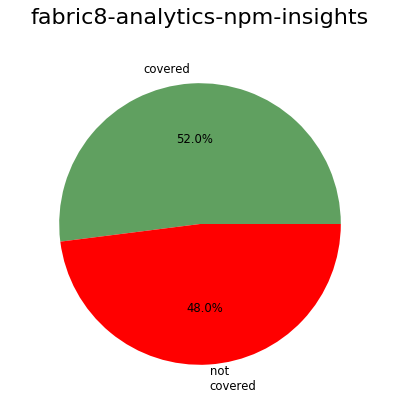
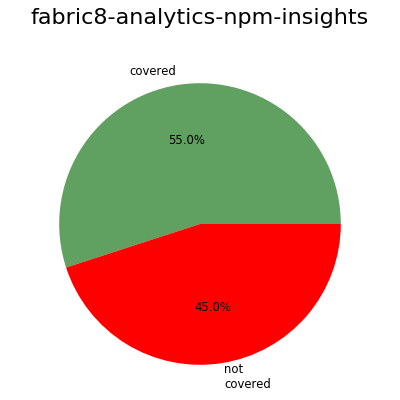
Dashboard 2018-06-01

diff --git a/dashboard/dashboard.html b/dashboard/dashboard.html
@@ -913,11 +913,11 @@
                                 </a>
                             </td>
                                 <td class="numeric ok" style="width:6ex">330</td>
-                                <td class="numeric error" style="width:6ex">157</td>
+                                <td class="numeric error" style="width:6ex">149</td>
                                 <td class="numeric" style="width:16ex">
                                     <a href="fabric8-analytics-npm-insights.coverage.txt">
-                                        <div class='progress-bar progress-bar-warning progress-bar-striped' style='width:59.199999999999996%'>
-                                        52%
+                                        <div class='progress-bar progress-bar-warning progress-bar-striped' style='width:61.75%'>
+                                        55%
                                         </div>
                                     </a>
                                 </td>
@@ -1244,7 +1244,7 @@
             </div>
             <div style='height:100px'></div>
             <div>Author: Pavel Tisnovsky &lt;<a href="mailto:ptisnovs@redhat.com">ptisnovs@redhat.com</a>&gt;</div>
-            <div>Generated on: 2018-05-31 15:20:19</div>
+            <div>Generated on: 2018-06-01 09:34:51</div>
         </div>
         <script type="text/javascript">
         $(function () {

diff --git a/dashboard/repository_f8a-server-backbone.html b/dashboard/repository_f8a-server-backbone.html
@@ -106,7 +106,7 @@
             </div>
             <div style='height:100px'></div>
             <div>Author: Pavel Tisnovsky &lt;<a href="mailto:ptisnovs@redhat.com">ptisnovs@redhat.com</a>&gt;</div>
-            <div>Generated on: 2018-05-31 15:20:19</div>
+            <div>Generated on: 2018-06-01 09:34:51</div>
         </div>
     </body>
 </html>

diff --git a/dashboard/repository_fabric8-analytics-common.html b/dashboard/repository_fabric8-analytics-common.html
@@ -616,7 +616,7 @@
             </div>
             <div style='height:100px'></div>
             <div>Author: Pavel Tisnovsky &lt;<a href="mailto:ptisnovs@redhat.com">ptisnovs@redhat.com</a>&gt;</div>
-            <div>Generated on: 2018-05-31 15:20:19</div>
+            <div>Generated on: 2018-06-01 09:34:51</div>
         </div>
     </body>
 </html>

diff --git a/dashboard/repository_fabric8-analytics-data-model.html b/dashboard/repository_fabric8-analytics-data-model.html
@@ -148,7 +148,7 @@
             </div>
             <div style='height:100px'></div>
             <div>Author: Pavel Tisnovsky &lt;<a href="mailto:ptisnovs@redhat.com">ptisnovs@redhat.com</a>&gt;</div>
-            <div>Generated on: 2018-05-31 15:20:19</div>
+            <div>Generated on: 2018-06-01 09:34:51</div>
         </div>
     </body>
 </html>

diff --git a/dashboard/repository_fabric8-analytics-ingestion.html b/dashboard/repository_fabric8-analytics-ingestion.html
@@ -106,7 +106,7 @@
             </div>
             <div style='height:100px'></div>
             <div>Author: Pavel Tisnovsky &lt;<a href="mailto:ptisnovs@redhat.com">ptisnovs@redhat.com</a>&gt;</div>
-            <div>Generated on: 2018-05-31 15:20:19</div>
+            <div>Generated on: 2018-06-01 09:34:51</div>
         </div>
     </body>
 </html>

diff --git a/dashboard/repository_fabric8-analytics-jobs.html b/dashboard/repository_fabric8-analytics-jobs.html
@@ -274,7 +274,7 @@
             </div>
             <div style='height:100px'></div>
             <div>Author: Pavel Tisnovsky &lt;<a href="mailto:ptisnovs@redhat.com">ptisnovs@redhat.com</a>&gt;</div>
-            <div>Generated on: 2018-05-31 15:20:19</div>
+            <div>Generated on: 2018-06-01 09:34:51</div>
         </div>
     </body>
 </html>

diff --git a/dashboard/repository_fabric8-analytics-license-analysis.html b/dashboard/repository_fabric8-analytics-license-analysis.html
@@ -202,7 +202,7 @@
             </div>
             <div style='height:100px'></div>
             <div>Author: Pavel Tisnovsky &lt;<a href="mailto:ptisnovs@redhat.com">ptisnovs@redhat.com</a>&gt;</div>
-            <div>Generated on: 2018-05-31 15:20:19</div>
+            <div>Generated on: 2018-06-01 09:34:51</div>
         </div>
     </body>
 </html>

diff --git a/dashboard/repository_fabric8-analytics-npm-insights.html b/dashboard/repository_fabric8-analytics-npm-insights.html
@@ -148,7 +148,7 @@
             </div>
             <div style='height:100px'></div>
             <div>Author: Pavel Tisnovsky &lt;<a href="mailto:ptisnovs@redhat.com">ptisnovs@redhat.com</a>&gt;</div>
-            <div>Generated on: 2018-05-31 15:20:19</div>
+            <div>Generated on: 2018-06-01 09:34:51</div>
         </div>
     </body>
 </html>

diff --git a/dashboard/repository_fabric8-analytics-nvd-toolkit.html b/dashboard/repository_fabric8-analytics-nvd-toolkit.html
@@ -226,7 +226,7 @@
             </div>
             <div style='height:100px'></div>
             <div>Author: Pavel Tisnovsky &lt;<a href="mailto:ptisnovs@redhat.com">ptisnovs@redhat.com</a>&gt;</div>
-            <div>Generated on: 2018-05-31 15:20:19</div>
+            <div>Generated on: 2018-06-01 09:34:51</div>
         </div>
     </body>
 </html>

diff --git a/dashboard/repository_fabric8-analytics-recommender.html b/dashboard/repository_fabric8-analytics-recommender.html
@@ -124,7 +124,7 @@
             </div>
             <div style='height:100px'></div>
             <div>Author: Pavel Tisnovsky &lt;<a href="mailto:ptisnovs@redhat.com">ptisnovs@redhat.com</a>&gt;</div>
-            <div>Generated on: 2018-05-31 15:20:19</div>
+            <div>Generated on: 2018-06-01 09:34:51</div>
         </div>
     </body>
 </html>

diff --git a/dashboard/repository_fabric8-analytics-server.html b/dashboard/repository_fabric8-analytics-server.html
@@ -382,7 +382,7 @@
             </div>
             <div style='height:100px'></div>
             <div>Author: Pavel Tisnovsky &lt;<a href="mailto:ptisnovs@redhat.com">ptisnovs@redhat.com</a>&gt;</div>
-            <div>Generated on: 2018-05-31 15:20:19</div>
+            <div>Generated on: 2018-06-01 09:34:51</div>
         </div>
     </body>
 </html>

diff --git a/dashboard/repository_fabric8-analytics-stack-analysis.html b/dashboard/repository_fabric8-analytics-stack-analysis.html
@@ -574,7 +574,7 @@
             </div>
             <div style='height:100px'></div>
             <div>Author: Pavel Tisnovsky &lt;<a href="mailto:ptisnovs@redhat.com">ptisnovs@redhat.com</a>&gt;</div>
-            <div>Generated on: 2018-05-31 15:20:19</div>
+            <div>Generated on: 2018-06-01 09:34:51</div>
         </div>
     </body>
 </html>
